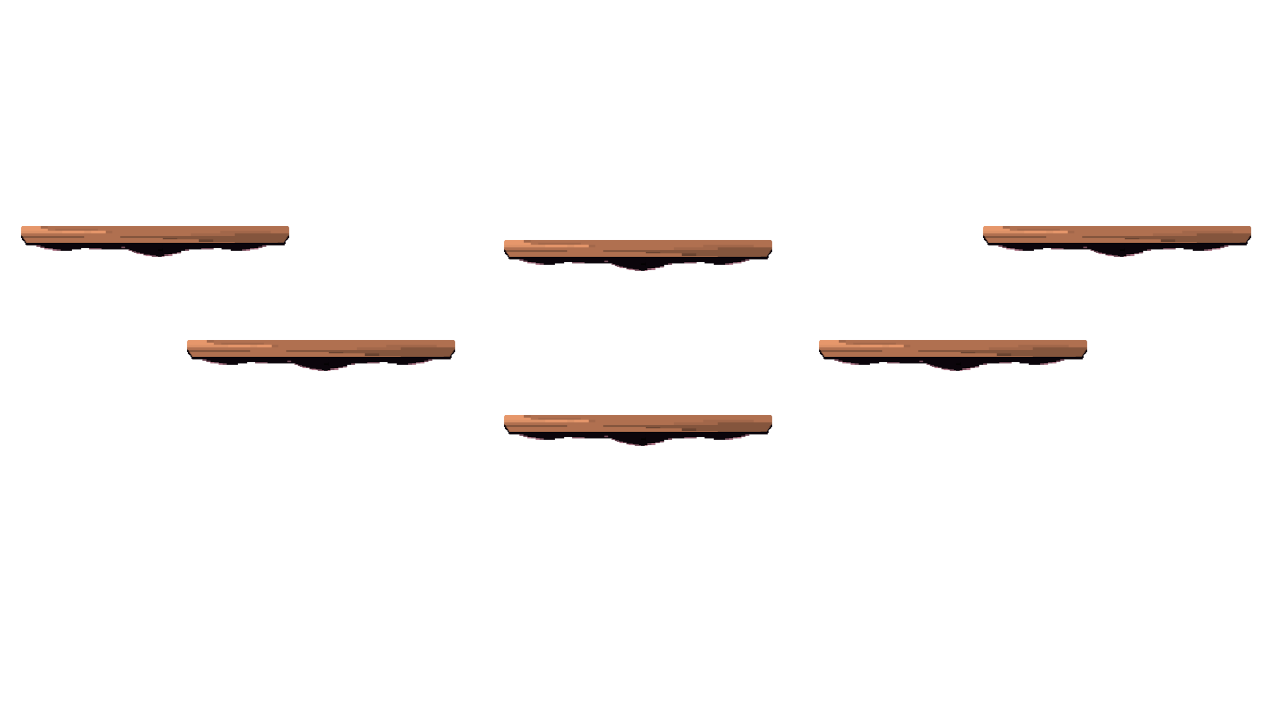
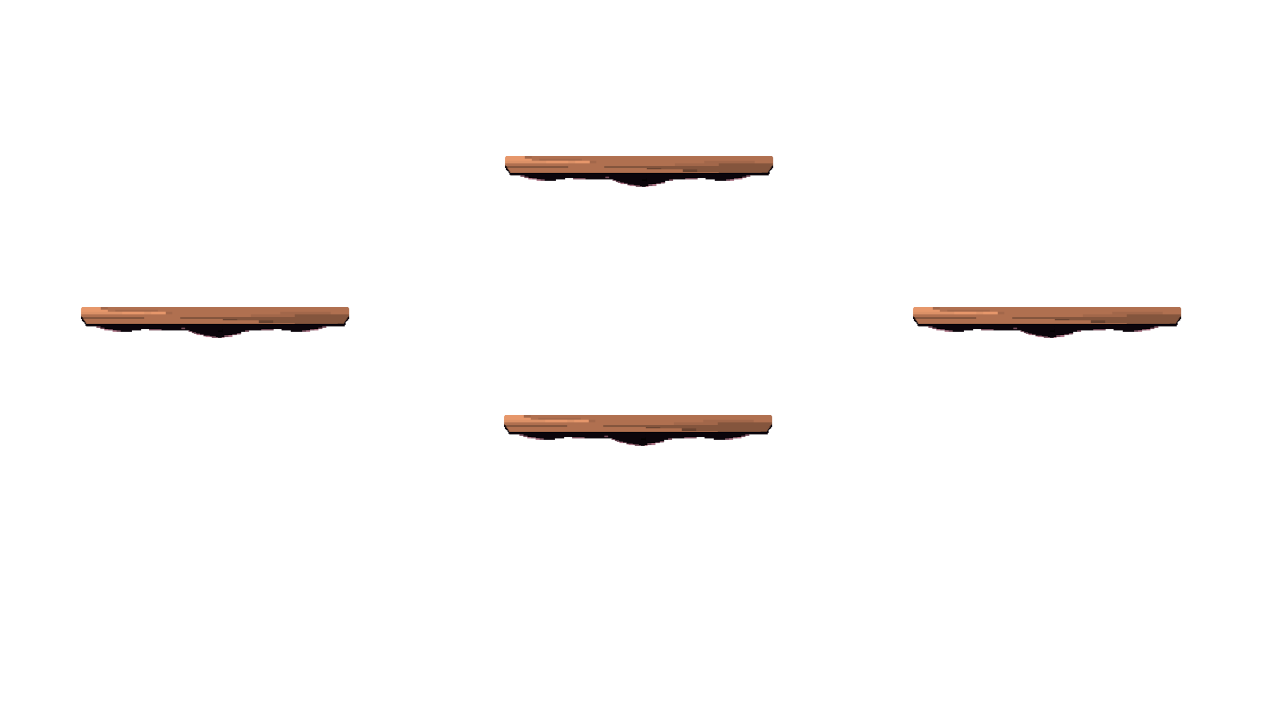
Add ledge collision

diff --git a/Goblet-of-Fire/src/MainGame.cpp b/Goblet-of-Fire/src/MainGame.cpp
@@ -28,12 +28,13 @@ namespace GobletOfFire::Scene {
       box.d_.x = 23.f;
       box.d_.y = 33.f;
 
-      auto collision = std::make_shared<ObjectComponent::cCollision>(
-        player, quadtree_, box, ObjectComponent::cCollision::Layer::kPlayerLayer
+      auto collision = std::make_shared<ObjectComponent::PlayerCollision>(
+        player, quadtree_, box
       );
       player->addComponent(ObjectComponent::iComponent::Type::kCollision, collision);
 
-      auto physics = std::make_shared<ObjectComponent::cPhysics>(player, Physics::point2<float>(400.f, 400.f), 45.f, 480.f);
+      auto physics = std::make_shared<ObjectComponent::cPhysics>(player, Physics::point2<float>(400.f, 400.f), 45.f, 520.f);
+      physics->setAcceleration({ 0.f, 520.f });
       player->addComponent(compType::kPhysics, physics);
 
       auto sprite = std::make_shared<ObjectComponent::cSprite>(1, player);
@@ -149,6 +150,83 @@ namespace GobletOfFire::Scene {
       map->addComponent(ObjectComponent::iComponent::Type::kSprite, sprite);
       map->addComponent(ObjectComponent::iComponent::Type::kTransform, transform);
 
+      ObjectComponent::cCollision::CollisionBox box;
+      box.offset_.x = 0.f;
+      box.offset_.y = 570.f - 40.f;
+      box.d_.x = 1279.7f;
+      box.d_.y = 142.f + 40;
+
+      auto collision = std::make_shared<ObjectComponent::LedgeCollision>(map, quadtree_, box);
+      map->addComponent(ObjectComponent::iComponent::Type::kCollision, collision);
+
+      object_collection_->add(map);
+    }
+
+    {
+      auto ledge = std::make_shared<ObjectComponent::Object>(5);
+      auto transform = std::make_shared<ObjectComponent::cTransform>(81.f, 305.f);
+      ledge->addComponent(ObjectComponent::iComponent::Type::kTransform, transform);
+      ObjectComponent::cCollision::CollisionBox box;
+      box.offset_.x = 0.f;
+      box.offset_.y = -40.f;
+      box.d_.x = 266.f;
+      box.d_.y = 29.f + 40.f;
+      auto collision = std::make_shared<ObjectComponent::LedgeCollision>(ledge, quadtree_, box);
+      ledge->addComponent(ObjectComponent::iComponent::Type::kCollision, collision);
+
+      object_collection_->add(ledge);
+    }
+    {
+      auto ledge = std::make_shared<ObjectComponent::Object>(5);
+      auto transform = std::make_shared<ObjectComponent::cTransform>(914.f, 305.f);
+      ledge->addComponent(ObjectComponent::iComponent::Type::kTransform, transform);
+      ObjectComponent::cCollision::CollisionBox box;
+      box.offset_.x = 0.f;
+      box.offset_.y = -40.f;
+      box.d_.x = 266.f;
+      box.d_.y = 29.f + 40.f;
+      auto collision = std::make_shared<ObjectComponent::LedgeCollision>(ledge, quadtree_, box);
+      ledge->addComponent(ObjectComponent::iComponent::Type::kCollision, collision);
+
+      object_collection_->add(ledge);
+    }
+    {
+      auto ledge = std::make_shared<ObjectComponent::Object>(5);
+      auto transform = std::make_shared<ObjectComponent::cTransform>(505.f, 156.f);
+      ledge->addComponent(ObjectComponent::iComponent::Type::kTransform, transform);
+      ObjectComponent::cCollision::CollisionBox box;
+      box.offset_.x = 0.f;
+      box.offset_.y = -40.f;
+      box.d_.x = 266.f;
+      box.d_.y = 29.f + 40.f;
+      auto collision = std::make_shared<ObjectComponent::LedgeCollision>(ledge, quadtree_, box);
+      ledge->addComponent(ObjectComponent::iComponent::Type::kCollision, collision);
+
+      object_collection_->add(ledge);
+    }
+    {
+      auto ledge = std::make_shared<ObjectComponent::Object>(5);
+      auto transform = std::make_shared<ObjectComponent::cTransform>(515, 415.f);
+      ledge->addComponent(ObjectComponent::iComponent::Type::kTransform, transform);
+      ObjectComponent::cCollision::CollisionBox box;
+      box.offset_.x = 0.f;
+      box.offset_.y = -40.f;
+      box.d_.x = 266.f;
+      box.d_.y = 29.f + 40.f;
+      auto collision = std::make_shared<ObjectComponent::LedgeCollision>(ledge, quadtree_, box);
+      ledge->addComponent(ObjectComponent::iComponent::Type::kCollision, collision);
+
+      object_collection_->add(ledge);
+    }
+
+    {
+      auto map = std::make_shared<ObjectComponent::Object>(5);
+
+      auto sprite = std::make_shared<ObjectComponent::cSprite>(52, map);
+      auto transform = std::make_shared<ObjectComponent::cTransform>(0.f, 0.f);
+      map->addComponent(ObjectComponent::iComponent::Type::kSprite, sprite);
+      map->addComponent(ObjectComponent::iComponent::Type::kTransform, transform);
+
       object_collection_->add(map);
     }
   }
@@ -171,6 +249,8 @@ namespace GobletOfFire::Scene {
     object_collection_->update(compType::kMovement, dt);
     object_collection_->update(compType::kPhysics, dt);
     object_collection_->update(compType::kAnimation, dt);
+    quadtree_->update();
+    object_collection_->update(compType::kCollision, dt);
     object_collection_->update(compType::kSprite, dt);
     last_update_ = Utilities::Time::clock::now();
   }
@@ -178,7 +258,7 @@ namespace GobletOfFire::Scene {
   void MainGame::updateRender() {
     local_buffer_->clear(Graphics::color::Black);
     object_collection_->render(*local_buffer_);
-    //local_buffer_->display();
+    local_buffer_->display();
   }
 
   std::shared_ptr<Graphics::buffer> MainGame::getBuffer() const{

diff --git a/Goblet-of-Fire/src/PlayerCollision.cpp b/Goblet-of-Fire/src/PlayerCollision.cpp
@@ -1,0 +1,107 @@
+#include <PlayerCollision.hpp>
+#include <iostream>
+
+namespace GobletOfFire::ObjectComponent {
+
+  PlayerCollision::PlayerCollision(std::shared_ptr<iObject> owner, std::shared_ptr<Physics::QuadTree> quadtree, const CollisionBox& box)
+    : cCollision(owner, quadtree, box, Layer::kPlayerLayer) {}
+
+  void PlayerCollision::resolveCollision(std::shared_ptr<cCollision> object) {
+    auto ledge_box = object->getBoundingBox();
+    auto player_box = getBoundingBox();
+
+    auto d_top_a = (ledge_box.top) -
+      (player_box.top + player_box.height);
+    auto d_top_b = (ledge_box.top) -
+      (player_box.top);
+
+    auto d_bottom_a = (ledge_box.top + ledge_box.height) -
+      (player_box.top + player_box.height);
+    auto d_bottom_b = (ledge_box.top + ledge_box.height) -
+      (player_box.top);
+
+    if (d_top_a < 0.f && d_top_b > 0.f) {
+      whenAboveLedge(player_box, ledge_box);
+    }
+    else if (d_bottom_a < 0.f && d_bottom_b > 0.f && d_top_b < 0.f) {
+      whenBelowLedge(player_box, ledge_box);
+    }
+  }
+
+  void PlayerCollision::checkWindowBounds() {
+    auto pos = transform_.lock()->getPoint();
+    auto box = getBoundingBox();
+    auto ldx = 0 - box.left;
+    auto rdx = Physics::window_dimensions_.x - (box.left + box.width);
+    if (ldx > 0) {
+      pos.x += ldx + 0.5f;
+      transform_.lock()->setPosition(pos);
+    }
+    else if (rdx < 0) {
+      pos.x += (rdx - 0.5f);
+      transform_.lock()->setPosition(pos);
+    }
+    return;
+  }
+
+  void PlayerCollision::whenAboveLedge(Physics::worldBox<float> player_box, Physics::worldBox<float> ledge_box) {
+    auto dx = calculateLedgeCoverage({ player_box.left, player_box.left + player_box.width }, { ledge_box.left, ledge_box.left + ledge_box.width });
+    auto dy = calculateLedgeCoverage({ player_box.top, player_box.top + player_box.height }, { ledge_box.top, ledge_box.top + ledge_box.height });
+
+    auto pos = transform_.lock()->getPoint();
+    auto vel = physics_.lock()->getVelocity();
+    auto acc = physics_.lock()->getAcceleration();
+    if (fabs(dx) >= player_box.width / 2.f) {
+      pos.y += dy;
+      transform_.lock()->setPosition(pos);
+      vel.y = 0;
+      physics_.lock()->setAcceleration(acc);
+      physics_.lock()->setVelocity(vel);
+    }
+    else if (fabs(dx) < fabs(dy) || fabs(dx) < (player_box.width / 2.f)) {
+      pos.x += dx;
+      transform_.lock()->setPosition(pos);
+      vel.x *= (dx / fabs(dx));
+      physics_.lock()->setVelocity(vel);
+    }
+  }
+
+  void PlayerCollision::whenBelowLedge(Physics::worldBox<float> player_box, Physics::worldBox<float> ledge_box) {
+    auto dy = calculateLedgeCoverage({ player_box.left, player_box.left + player_box.width }, { ledge_box.left, ledge_box.left + ledge_box.width });
+    auto dx = calculateLedgeCoverage({ player_box.top, player_box.top + player_box.height }, { ledge_box.top, ledge_box.top + ledge_box.height });
+
+    auto pos = transform_.lock()->getPoint();
+    auto vel = physics_.lock()->getVelocity();
+    auto acc = physics_.lock()->getAcceleration();
+
+    if (fabs(dx) >= player_box.width / 2.f) {
+      pos.y += dy;
+      transform_.lock()->setPosition(pos);
+      vel.y = 0;
+      physics_.lock()->setVelocity(vel);
+    }
+    else {
+      pos.x += dx;
+      transform_.lock()->setPosition(pos);
+      vel.x *= -1.f;
+      physics_.lock()->setVelocity(vel);
+    }
+  }
+
+  float PlayerCollision::calculateLedgeCoverage(Physics::point2<float> p1, Physics::point2<float> p2) {
+    float d = 1.f;
+    if (p1.x < p2.x) {
+      d *= -1.f;
+      d *= (p1.y - p2.x);
+    }
+    else if (p1.x < p2.y && p1.y <= p2.y) {
+      d *= (p1.y - p1.x);
+    }
+    else {
+      d *= (p1.y - p2.y);
+    }
+    return d;
+  }
+
+
+}

diff --git a/Goblet-of-Fire/src/cKeyboardMovement.cpp b/Goblet-of-Fire/src/cKeyboardMovement.cpp
@@ -44,7 +44,7 @@ namespace GobletOfFire::ObjectComponent {
     auto velocity = physics_.lock()->getVelocity();
     auto acceleration = physics_.lock()->getAcceleration();
 
-    if (velocity.y != 0 || acceleration.y != 0) {
+    if (velocity.y != 0) {
       whileInAir();
     }
     else {
@@ -58,6 +58,19 @@ namespace GobletOfFire::ObjectComponent {
 
   void cKeyboardMovement::whileInAir() {
     auto velocity = physics_.lock()->getVelocity();
+    auto max_velocity = physics_.lock()->getMaxVelocity();
+
+    if (input_->isKeyPressed(key_binds_[2])) {
+      animation_.lock()->changeDirection(cAnimation::FacingDirection::kLeft);
+      velocity.x = -1 * max_velocity.x;
+    }
+    else if (input_->isKeyPressed(key_binds_[3])) {
+      animation_.lock()->changeDirection(cAnimation::FacingDirection::kRight);
+      velocity.x = max_velocity.x;
+    }
+    else if ((!input_->isKeyHold(key_binds_[2])) && (!input_->isKeyHold(key_binds_[3]))) {
+      velocity.x = 0;
+    }
 
     if (velocity.y >= 0) {
       animation_.lock()->setAnimationState(5);

diff --git a/Goblet-of-Fire/include/PlayerCollision.hpp b/Goblet-of-Fire/include/PlayerCollision.hpp
@@ -1,0 +1,21 @@
+#pragma once
+
+#include <cCollision.hpp>
+
+namespace GobletOfFire::ObjectComponent {
+  class PlayerCollision : public cCollision {
+  public:
+    PlayerCollision(std::shared_ptr<iObject>,
+      std::shared_ptr<Physics::QuadTree>,
+      const CollisionBox&);
+
+  protected:
+    virtual void resolveCollision(std::shared_ptr<cCollision>) override;
+    virtual void checkWindowBounds() override;
+
+    void whenAboveLedge(Physics::worldBox<float>, Physics::worldBox<float>);
+    void whenBelowLedge(Physics::worldBox<float>, Physics::worldBox<float>);
+      
+    float calculateLedgeCoverage(Physics::point2<float>, Physics::point2<float>);
+  };
+}

diff --git a/Goblet-of-Fire/include/cCollision.hpp b/Goblet-of-Fire/include/cCollision.hpp
@@ -40,8 +40,8 @@ namespace GobletOfFire::ObjectComponent {
     uint32_t getLayerMask() const;
 
   protected:
-    virtual void resolveCollision(std::shared_ptr<cCollision>);
-    virtual void checkWindowBounds();
+    virtual void resolveCollision(std::shared_ptr<cCollision>) = 0;
+    virtual void checkWindowBounds() = 0;
 
     const CollisionBox collider_;
 
@@ -57,5 +57,8 @@ namespace GobletOfFire::ObjectComponent {
     std::shared_ptr<Physics::QuadTree> quadtree_;
   };
 }
+
+#include <LedgeCollision.hpp>
+#include <PlayerCollision.hpp>
 
 #endif // !C_COLLISION_HPP

diff --git a/Goblet-of-Fire/src/CoreEngine.cpp b/Goblet-of-Fire/src/CoreEngine.cpp
@@ -67,7 +67,7 @@ namespace GobletOfFire {
 
       if (ptr_texture) {
         Graphics::sprite sprite_to_draw(ptr_texture->getTexture());
-        sprite_to_draw.setTextureRect(ObjectComponent::cSprite::spriteRect(0, ptr_texture->getSize().y, ptr_texture->getSize().x, -1 * ptr_texture->getSize().y));
+        //sprite_to_draw.setTextureRect(ObjectComponent::cSprite::spriteRect(0, ptr_texture->getSize().y, ptr_texture->getSize().x, -1 * ptr_texture->getSize().y));
         main_window_->draw(sprite_to_draw);
       }
 

diff --git a/Goblet-of-Fire/include/cCollision.cpp b/Goblet-of-Fire/include/cCollision.cpp
@@ -1,4 +1,5 @@
 #include <cCollision.hpp>
+#include <iostream>
 
 namespace GobletOfFire::ObjectComponent {
   cCollision::cCollision(std::shared_ptr<iObject> owner,
@@ -55,14 +56,6 @@ namespace GobletOfFire::ObjectComponent {
   }
   uint32_t cCollision::getLayerMask() const {
     return layer_mask_;
-  }
-
-  void cCollision::resolveCollision(std::shared_ptr<cCollision>)
-  {
-  }
-
-  void cCollision::checkWindowBounds()
-  {
   }
 
   uint32_t cCollision::getCollisionLayer(uint32_t layer_mask) {

diff --git a/Goblet-of-Fire/src/QuadTree.cpp b/Goblet-of-Fire/src/QuadTree.cpp
@@ -70,12 +70,11 @@ namespace GobletOfFire::Physics {
       auto status = isInside(it->lock()->getBoundingBox());
       if (status == InsertStatus::kNotInside || status == InsertStatus::kPartiallyInside) {
         auto ptr = it->lock();
-        objects_.erase(it);
+        *it = std::weak_ptr<ObjectComponent::cCollision>();
         if (parent_) {
           parent_->insert(ptr);
         }
       }
-      if (it == objects_.end()) break;
     }
 
     if (is_divided_) {

diff --git a/Goblet-of-Fire/src/LedgeCollision.cpp b/Goblet-of-Fire/src/LedgeCollision.cpp
@@ -1,0 +1,12 @@
+#include <LedgeCollision.hpp>
+
+namespace GobletOfFire::ObjectComponent {
+  LedgeCollision::LedgeCollision(std::shared_ptr<iObject> owner, std::shared_ptr<Physics::QuadTree> quadtree, const CollisionBox& box)
+    : cCollision(owner, quadtree, box, Layer::kLedgeLayer) {}
+  void LedgeCollision::resolveCollision(std::shared_ptr<cCollision>)
+  {
+  }
+  void LedgeCollision::checkWindowBounds()
+  {
+  }
+}

diff --git a/Goblet-of-Fire/include/LedgeCollision.hpp b/Goblet-of-Fire/include/LedgeCollision.hpp
@@ -1,0 +1,15 @@
+#pragma once
+#include <cCollision.hpp>
+
+namespace GobletOfFire::ObjectComponent {
+  class LedgeCollision : public cCollision {
+  public:
+    LedgeCollision(std::shared_ptr<iObject>,
+      std::shared_ptr<Physics::QuadTree>,
+      const CollisionBox&);
+
+  protected:
+    virtual void resolveCollision(std::shared_ptr<cCollision>) override;
+    virtual void checkWindowBounds() override;
+  };
+}

diff --git a/Goblet-of-Fire/include/QuadTree.hpp b/Goblet-of-Fire/include/QuadTree.hpp
@@ -53,6 +53,7 @@ namespace GobletOfFire::Physics {
     QuadTree(uint32_t = 30);
 
     bool insert(std::shared_ptr<ObjectComponent::cCollision> object);
+    void update() { root_->update(); }
 
     QuadTreeNode::collisions getPotentialColliders(const Physics::worldBox<float>& queryBox) const;
 

diff --git a/Goblet-of-Fire/include/MainGame.hpp b/Goblet-of-Fire/include/MainGame.hpp
@@ -2,6 +2,7 @@
 #ifndef MAIN_GAME_HPP
 #define MAIN_GAME_HPP
 
+#include <Core.hpp>
 #include <Scene.hpp>
 #include <Graphics.hpp>
 #include <Physics.hpp>
